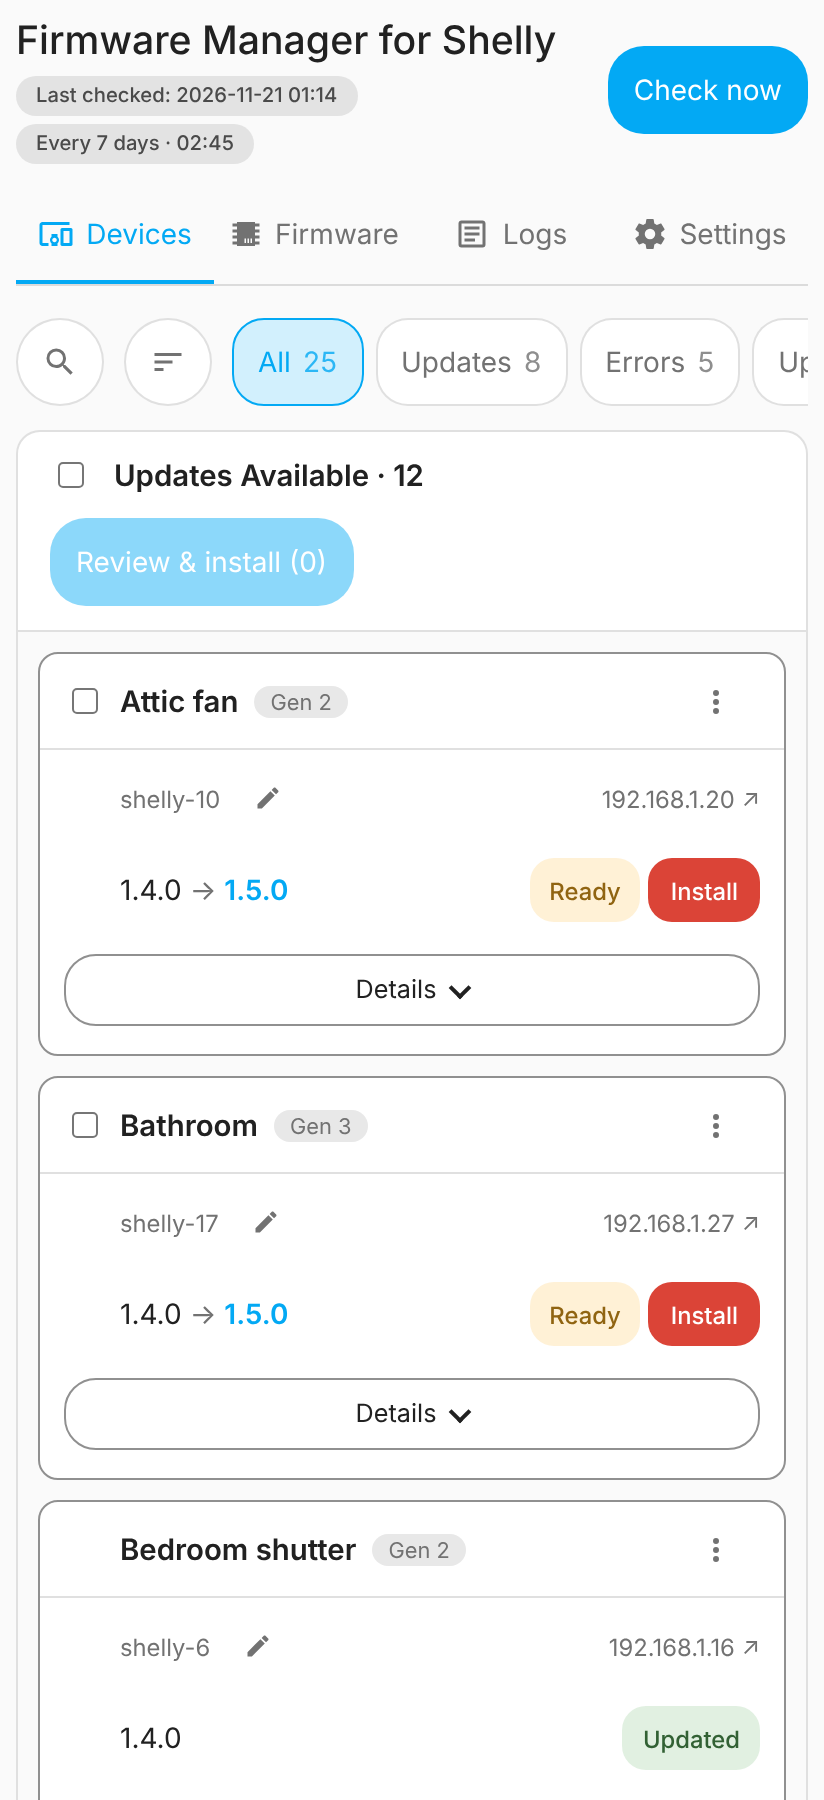
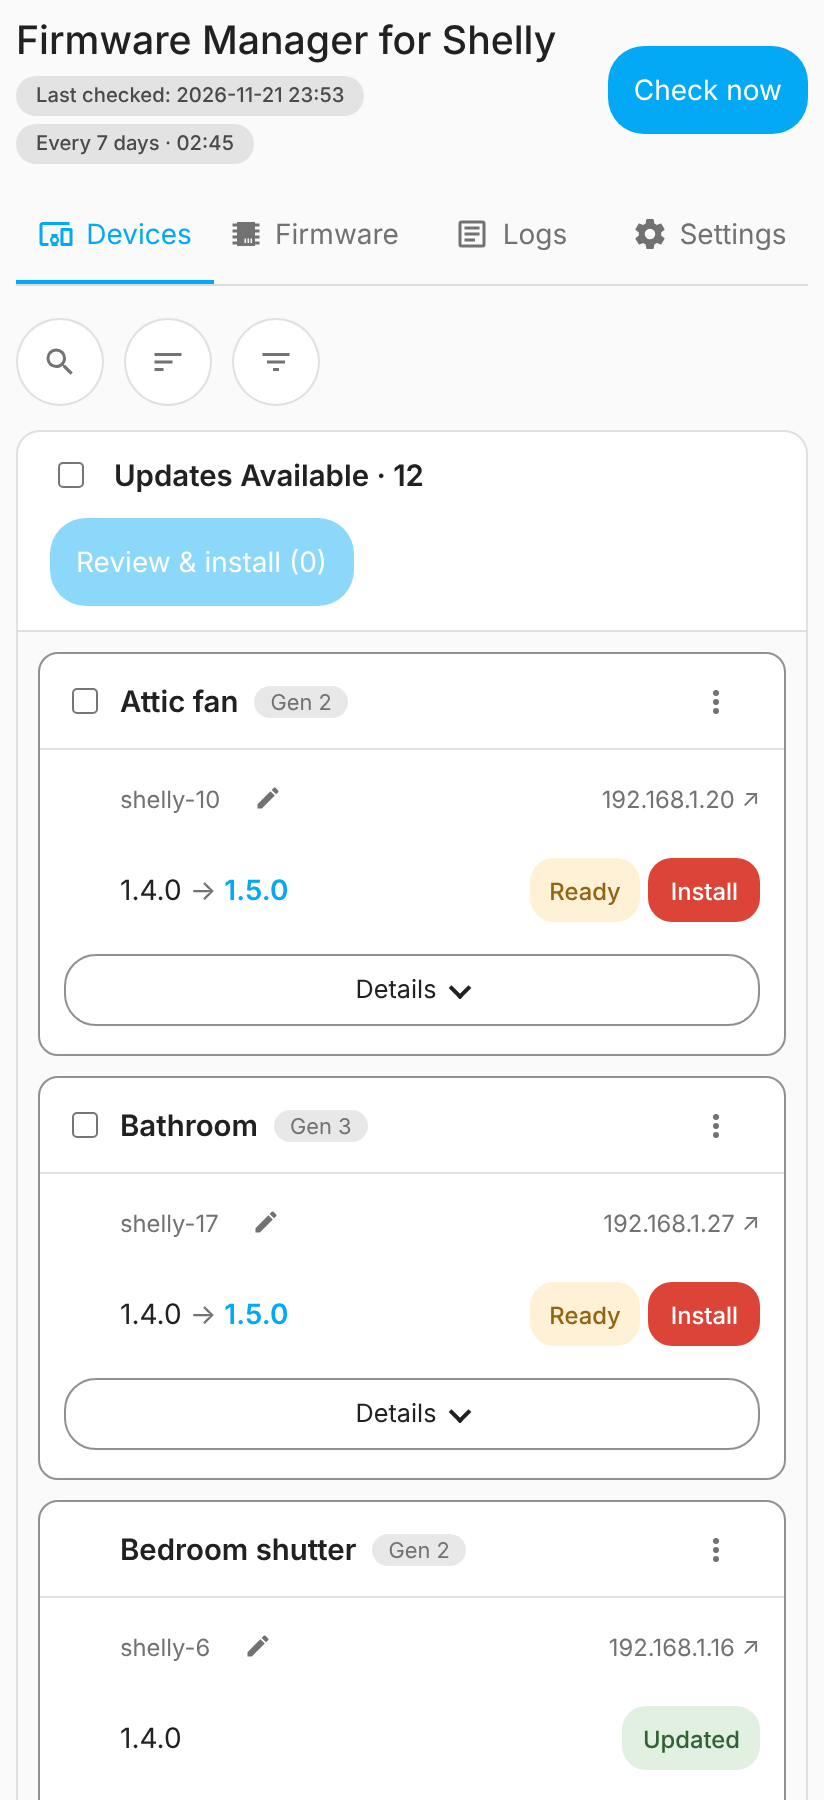
3.8.0: version, merged changelog section, test report, screenshots

diff --git a/shelly_firmware_manager/app/main.py b/shelly_firmware_manager/app/main.py
@@ -21,7 +21,7 @@ from manager import Manager
 from tls import CertificatePins
 from web_ui import build_ui_app
 
-VERSION = "3.8.0-rc3"  # must match config.yaml
+VERSION = "3.8.0"  # must match config.yaml
 
 OPTIONS_FILE = Path("/data/options.json")
 UI_PORT = 8099  # Ingress (internal)

diff --git a/shelly_firmware_manager/CHANGELOG.md b/shelly_firmware_manager/CHANGELOG.md
@@ -2,28 +2,8 @@
 
 ## 3.8.0
 
-Release candidate. The device list is split into sections with a filter popover, and
+Released 2026-11-22. The device list is split into sections with a filter popover, and
 devices removed from Home Assistant stay listed; lost firmware files are read back.
-
-Changes in rc3
-
-Added
-- Option "Resolve host names" (Settings → Advanced, off by default): only while it is
-  on, checks look up host names and the Devices tab offers the column "Host name".
-
-Changes in rc2
-
-Changed
-- Devices tab: column "Host name" shows the host name of the Shelly integration, else
-  `<device id>.local`; looked up at every check, shown only when it resolves.
-- Devices tab: the Removed pill tooltip says that "Check now" only tests whether the
-  device still answers (or answers again).
-
-Fixed
-- Other Shellys: a listed Shelly that Home Assistant also knows over Bluetooth (BLE MAC
-  = Wi-Fi MAC + 2) is no longer listed a second time.
-
-Changes in rc1
 
 Added
 - Devices removed from Home Assistant stay listed under "Removed"; a full check only
@@ -36,7 +16,10 @@ Added
 - Firmware files on disk that the store does not list are read back at the start when
   their content proves ID and version (SHA-256); a log warning names them.
 - Devices tab: "No usable address" for a device whose address cannot be used, with the
-  reason (desktop); optional column "Host name" (off by default).
+  reason (desktop).
+- Option "Resolve host names" (Settings → Advanced, off by default): only while it is
+  on, checks look up host names and the Devices tab offers the column "Host name"
+  (host name of the Shelly integration, else `<device id>.local`; shown if it resolves).
 - Firmware tab: card "Unknown Files" lists files the store does not know; delete there.
 - Pre-release versions show a red "(beta)" next to the app title.
 
@@ -45,6 +28,8 @@ Changed
   Asleep, Ignored, Removed, Other Shellys); a removed device loses its Ignored mark.
 - Devices, Firmware and Logs tabs: the filters are a popover of a filter icon next to
   Sort, with counts; a dot marks an active filter.
+- Devices tab: the Removed pill tooltip says that "Check now" only tests whether the
+  device still answers (or answers again).
 - Gen1: the list of allowed types is removed; every Gen1 type is checked while Gen1
   updates are enabled (a stored list is ignored).
 - Unknown files in the firmware folder are no longer deleted automatically.
@@ -54,6 +39,8 @@ Fixed
   silently while Home Assistant renews the session; only a lasting refusal is shown.
 - Devices tab (desktop): the header checkbox of "Updates Available" is aligned with the
   row checkboxes.
+- Other Shellys: a listed Shelly that Home Assistant also knows over Bluetooth (BLE MAC
+  = Wi-Fi MAC + 2) is no longer listed a second time.
 
 ## 3.7.1
 

diff --git a/candidates/TEST_REPORT-3.8.0.md b/candidates/TEST_REPORT-3.8.0.md
@@ -1,0 +1,35 @@
+# Test report 3.8.0
+
+Final release 3.8.0 on branch `release-3.8.0` (base: `main` = `v3.7.1`), after 3.8.0-rc1 to rc3;
+all three candidates were tested live through the beta channel.
+
+## Scope
+
+| Area | Change |
+|---|---|
+| Device list | sections, filter popover (Devices, Firmware, Logs), Removed devices with "Remove from list", "No usable address", read-only "Other Shellys", battery source, optional column "Host name" |
+| Settings | option "Resolve host names" (Advanced, off by default); Gen1 type list removed |
+| Firmware store | files on disk read back at the start (SHA-256); card "Unknown Files"; unknown files are no longer deleted automatically |
+| Fixes | 401 after the app was in the background; header checkbox alignment; Bluetooth duplicates of listed Shellys |
+| Beta mark | pre-release versions show "(beta)" next to the title |
+
+## Results
+
+| Check | Result |
+|---|---|
+| `tools/dev/check.sh full`: ruff, mypy --strict, build check, version 3.8.0, pytest, UI, layout gate | passed except one check: 447 pytest; ui_test 210/210; ui_features 810/811; layout gate 28/28 |
+| Failing check | `store_transfer`, 360-light-embedded, "password not cut off": fails in the full run (3 runs), passes alone and in the quick run; known flake, kept as is by the maintainer; not narrowed down |
+| CVE check | 2026-11-22: PyPI lists no known vulnerability for the ten pinned packages; base image digest unchanged, 3.12.16 is the newest 3.12 alpine tag |
+| Docs check (seven points) | changelog bullets match `DOCS.md`; options in `config.yaml`, `translations/en.yaml`, Settings tab and Configuration agree; feature list identical in both READMEs; minimum HA 2026.10 and architectures agree; Credits table matches `requirements.txt`; relative links and anchors resolve; section order of `DOCS.md` and fixed content of `README.md` unchanged |
+| Screenshots | `qa/screenshots/3.8.0/` (1440 and 412 px: Devices, Firmware, Logs, Settings, details); `docs/images/` Devices and Firmware replaced |
+
+## Live tests through the beta channel
+
+- rc1 (steps 1-7), rc2 and rc3 tested in Home Assistant by the maintainer (2026-11-21/22): passed.
+  The card "Unknown Files" was not tested live.
+
+## Not tested here
+
+- Real Home Assistant / Ingress / Supervisor, real Shelly hardware, non-Chromium browsers; HA battery
+  sensor detection and manufacturer texts of other Shelly kinds; Watchdog restart; item 12 (one download
+  for parallel checks); beta channel with a missing image.
